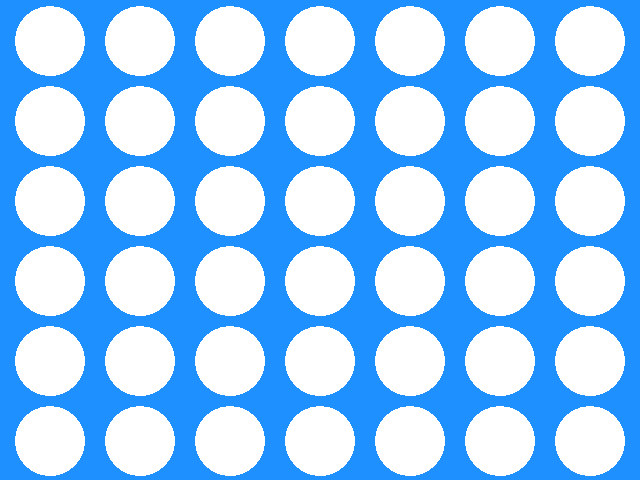
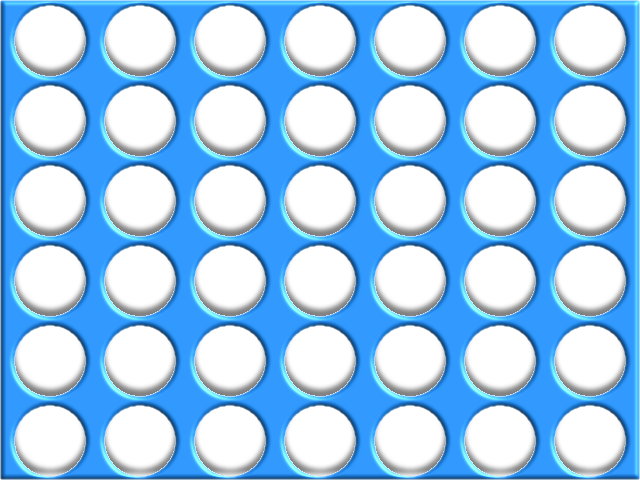
Edited and updated gameboard image

Changed region(s): [[0.0, 0.0, 1.0, 1.0]]

diff --git a/style.css b/style.css
@@ -67,14 +67,20 @@ background-image: url(images/pause.png);
 }
 
 .game-container {
-  background-image: url(./images/gameboardoverlay.png);
-  background-position: left;
-  background-size: cover;
   display: flex;
   flex-wrap: wrap;
+  justify-content: space-evenly;
   width: 73%;
   height: 75%;
   /* background-color:blue; */
+}
+.game-board {
+  background-image: url("./images/gameboardoverlay.png");
+  background-size: cover;
+  position: absolute;
+  pointer-events: none;
+  width: 49%;
+  height: 90%;
 }
 
 .win-modal{
@@ -281,11 +287,17 @@ background-image: url(images/pause.png);
 }
 
 .p1.token{
-  background-color: firebrick;
+  background-image: url(./images/gamepiece-red.png);
+  background-size: contain;
+  background-repeat: no-repeat;
+  background-position: center;
 }
 
 .p2.token{
-  background-color: goldenrod;
+  background-image: url(./images/gamepiece-yellow.png);
+  background-size: contain;
+  background-repeat: no-repeat;
+  background-position: center;
 }
 
 .hidden {

diff --git a/main.js b/main.js
@@ -198,14 +198,14 @@ function checkVertical(lastCol){
   for (let row = 0; row < rowLength; row++){
     if (gameBoardArray[lastCol][row]===currentPlayer){
       piecesCounter++;
-    }
+    } else {
+      piecesCounter = 0;
   }
 
   if(piecesCounter===4){
     console.log('vworks');
     return true;
-  } else {
-    piecesCounter = 0;
+  }
   }
 
   return false;
@@ -217,14 +217,14 @@ function checkHorizontal(lastRow) {
   for (let col = 0; col < colLength; col++) {
     if (gameBoardArray[col][lastRow] === currentPlayer) {
       piecesCounter++;
-    }
+    } else {
+      piecesCounter = 0;
   }
 
   if (piecesCounter === 4) {
     console.log('hworks')
     return true;
-  } else {
-    piecesCounter = 0;
+  }
   }
 
   return false;

diff --git a/index.html b/index.html
@@ -57,6 +57,7 @@
           <div class="stats p1 col-5" id="p1_win_percent">0%</div>
       </aside>
       <div class="game-container hidden">
+          <div class="game-board"></div>
           <div class="row">
               <div class="col-1 game-piece" id="05">0 5</div>
               <div class="col-1 game-piece" id="15">1 5</div>
@@ -111,6 +112,7 @@
               <div class="col-1 game-piece" id="50">5 0</div>
               <div class="col-1 game-piece" id="60">6 0</div>
           </div>
+
       </div>
       <div class="right">
           <div class="info p2 icon col-5"></div>
